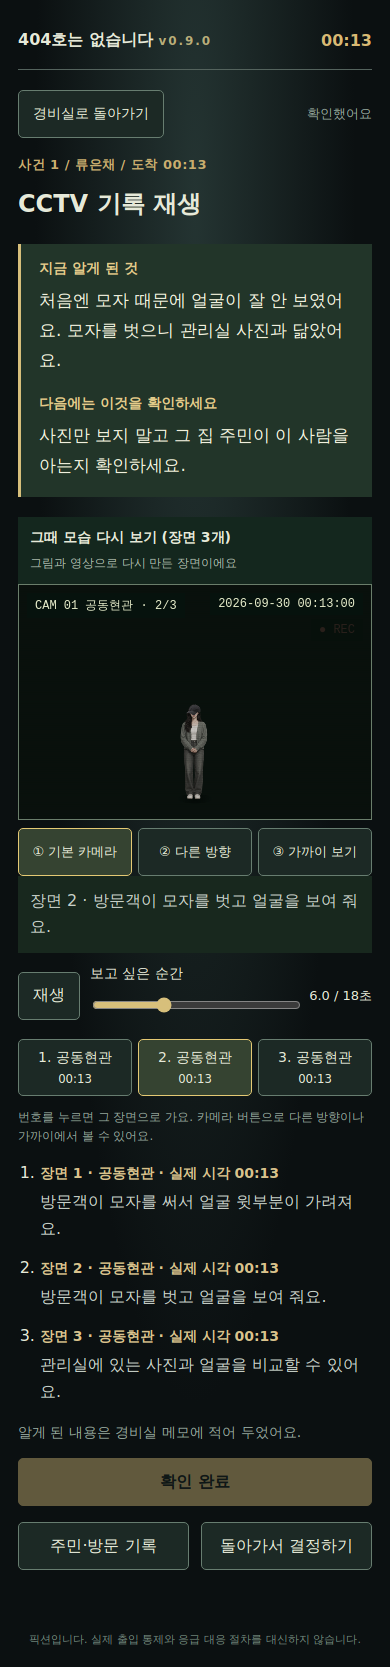
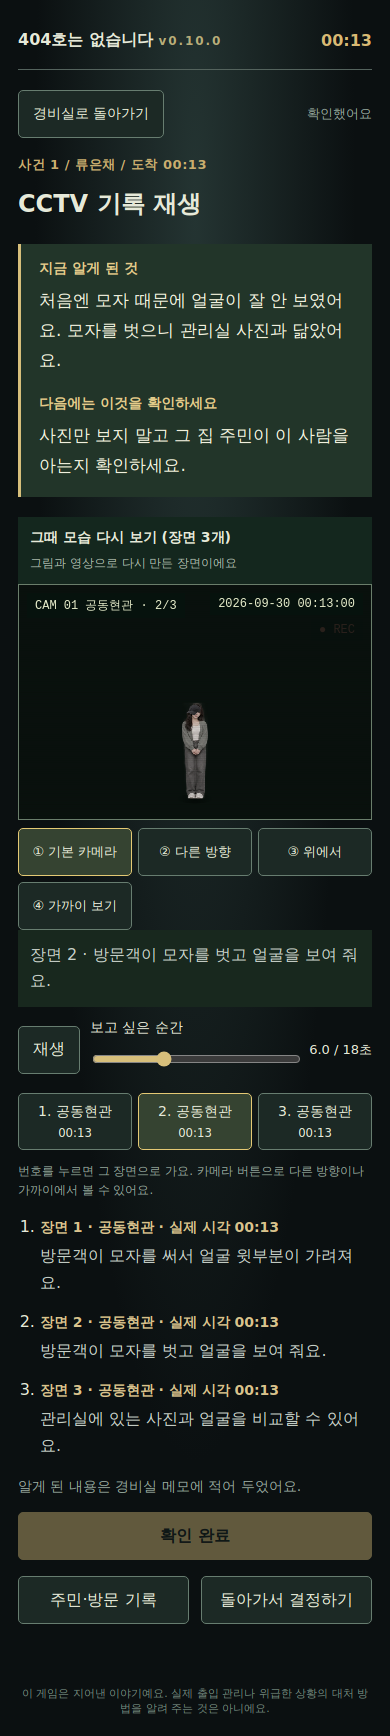
v0.10.0: image v3 — real second camera per place, front/back walks, gestures
- store the 18-file v3 package in visual-v3/, ship WebP copies
- replay.js: SIDE_VIEW/TOP_VIEW per place (no more mirrored fallback),
  '위에서' camera for the lobby, OPPOSITE views use the walk-away sheet,
  elevator-lobby view hides someone standing inside, VIEW_NAMES in HUD
- sprites: toward/away/side walk sheets and a gesture sheet per look
  (wave, knock, phone, look back, stand); phone gesture replaces the prop
- tests: second-camera and sprite-cell checks; top camera in all-cases
- CHANGELOG-0.10.0, CODE_GUIDE, README, WORKLOG, prompt-doc status

Claude-Session: https://claude.ai/code/session_01FGAUvVNs8BW1MSHvwbK7z4

diff --git a/404호는 없습니다/room404/dist/replay.js b/404호는 없습니다/room404/dist/replay.js
@@ -3,9 +3,17 @@
 // the visitor, props and anomaly effects. The HUD is HTML so camera flips/zooms never mirror or blur the text.
 export const LOCATIONS={lobby:'공동현관',lobbySide:'현관 옆 카메라',hall:'안쪽 복도',elevator:'엘리베이터',stairs:'계단',parking:'주차장',door:'집 현관문'};
 export const MODES=['normal','compare','badge','double','shadow','shadowHold','faceLock','absent','yesterday','doorClosed','doorOpen','doorCompare','preMove','footprints','voiceEarly','voiceLate','clock7','repeat','reflection','recorded','live','dateOnly','ir','reboot','loading','delay3','rainDouble','rain','removeProp','idMatch','card','fingerprint','darkCoat','hairOld','distort','faceShadow','blurCard','document','phone','ring','echo'];
-export const CAMERAS={main:'① 기본 카메라',side:'② 다른 방향',close:'③ 가까이 보기'};
+export const CAMERAS={main:'① 기본 카메라',side:'② 다른 방향',top:'③ 위에서',close:'④ 가까이 보기'};
 const V2='assets/v2/';
-const BACKGROUNDS={lobby:'cctv-lobby',lobbySide:'cctv-lobby-side',hall:'cctv-hall',elevator:'cctv-elevator',stairs:'cctv-stairs',parking:'cctv-parking',door:'door-closed',doorOpen:'door-open'};
+const BACKGROUNDS={lobby:'cctv-lobby',lobbySide:'cctv-lobby-side',hall:'cctv-hall',elevator:'cctv-elevator',stairs:'cctv-stairs',parking:'cctv-parking',door:'door-closed',doorOpen:'door-open',
+ hallSide:'cctv-hall-side',elevatorLobby:'cctv-elevator-lobby',stairsUp:'cctv-stairs-up',parkingSide:'cctv-parking-side',doorFar:'door-far',lobbyTop:'cctv-lobby-top'};
+// v3: every place has a real second camera, and the lobby also has a top-down one.
+export const SIDE_VIEW={lobby:'lobbySide',lobbySide:'lobby',hall:'hallSide',elevator:'elevatorLobby',stairs:'stairsUp',parking:'parkingSide',door:'doorFar'};
+export const TOP_VIEW={lobby:'lobbyTop',lobbySide:'lobbyTop'};
+export const VIEW_NAMES={hallSide:'복도 반대편',elevatorLobby:'엘리베이터 앞',stairsUp:'계단 아래쪽',parkingSide:'주차장 반대편',doorFar:'복도 끝에서 본 현관문',lobbyTop:'공동현관 위에서'};
+// These cameras look at the place from the opposite end: someone entering toward the main camera walks away from them.
+const OPPOSITE=new Set(['hallSide','parkingSide','elevatorLobby','doorFar']);
+export function viewFor(location,camera){return camera==='side'?SIDE_VIEW[location]||location:camera==='top'?TOP_VIEW[location]||location:location}
 const AMBIENT={lobby:'03-lobby-monitor',lobbySide:'04-lobby-side-monitor',hall:'05-hall-monitor',elevator:'06-elevator-monitor',stairs:'07-stairs-monitor',parking:'08-parking-monitor'};
 // Anomaly clips already contain one specific visitor look, so they are used only when place, mode and look all match.
 const ANOMALY_CLIPS=[['17-delayed-shadow','hall','shadowHold',1],['18-duplicate-visitors','lobby','double',2],['19-reflection-lag','elevator','reflection',3],['21-infrared-view','parking','ir',4],['22-rain-double-image','lobby','rainDouble',1]];
@@ -13,7 +21,8 @@ const ANOMALY_CLIPS=[['17-delayed-shadow','hall','shadowHold',1],['18-duplicate-
 // Perspective per place (canvas 960x640). y/h: foot line and figure height at the reference (near) spot.
 // horizon: the line where a figure's height would shrink to zero; far/farX: where someone appears at the back of the shot.
 // A figure's height always follows its foot line, so anyone walking toward the camera grows the way a real CCTV image does.
-const LAYOUT={lobby:{y:585,h:285,horizon:-20,far:330,farX:240},lobbySide:{y:585,h:285,horizon:-20,far:350,farX:300},hall:{y:587,h:290,horizon:250,far:430,farX:470},elevator:{y:568,h:340,horizon:-150,far:450,farX:500},stairs:{y:590,h:290,horizon:-40,far:380,farX:620},parking:{y:570,h:260,horizon:230,far:390,farX:330},door:{y:600,h:300,horizon:-300,far:560,farX:480}};
+const LAYOUT={lobby:{y:585,h:285,horizon:-20,far:330,farX:240},lobbySide:{y:585,h:285,horizon:-20,far:350,farX:300},hall:{y:587,h:290,horizon:250,far:430,farX:470},elevator:{y:568,h:340,horizon:-150,far:450,farX:500},stairs:{y:590,h:290,horizon:-40,far:380,farX:620},parking:{y:570,h:260,horizon:230,far:390,farX:330},door:{y:600,h:300,horizon:-300,far:560,farX:480},
+ hallSide:{y:587,h:290,horizon:250,far:430,farX:480},elevatorLobby:{y:590,h:300,horizon:-100,far:470,farX:480},stairsUp:{y:600,h:300,horizon:-60,far:330,farX:640},parkingSide:{y:580,h:270,horizon:200,far:400,farX:480},doorFar:{y:440,h:190,horizon:-120,far:440,farX:470},lobbyTop:{y:600,h:280,horizon:-300,far:300,farX:200}};
 export function heightAt(location,footY){const b=LAYOUT[location]||LAYOUT.lobby;return b.h*(footY-b.horizon)/(b.y-b.horizon)}
 // Uniform motion toward or away from the camera is not linear on screen: the foot line follows 1/depth.
 export function perspectiveY(horizon,y0,y1,phase){const a=y0-horizon,b=y1-horizon;return horizon+a*b/(b-phase*(b-a))}
@@ -29,27 +38,33 @@ export function sceneTime(frame,time){return shiftedTime(time,frame.offset+(fram
 function previousDate(date){const d=new Date(date+'T12:00:00Z');d.setUTCDate(d.getUTCDate()-1);return d.toISOString().slice(0,10)}
 function reduceMotion(){return typeof matchMedia==='function'&&matchMedia('(prefers-reduced-motion: reduce)').matches}
 // Where the visitor stands at this phase of the scene. Shared by drawing and the close-up camera.
+// Sprite sheets (all 4x2 cells of 384x512, feet on the same line): side = walking sideways, toward = walking at the camera,
+// away = walking from the camera, gest = wave(0,1) knock(2,3) phone(4,5) look back(6) stand(7).
+export const GESTURE={wave:[0,1],knock:[2,3],phone:[4,5],look:6,stand:7};
 export function actorPlacement(s,phase,look=1){
- const base=LAYOUT[s.location]||LAYOUT.lobby;let x=480,y=base.y,walking=false,facing=1;
- if(videoWalk(s,look))return {x:-90+phase*1140,y:582,h:285,walking:true,video:true,facing:1};
+ const base=LAYOUT[s.location]||LAYOUT.lobby;let x=480,y=base.y,walking=false,facing=1,sheet='gest',cell=GESTURE.stand;
+ if(videoWalk(s,look))return {x:-90+phase*1140,y:582,h:285,walking:true,video:true,facing:1,sheet:'side',cell:-1};
  // A straight walk on the floor: the foot line follows perspective, x follows the foot line so the path stays straight on screen.
  const path=(x0,y0,x1,y1,q=phase)=>{y=perspectiveY(base.horizon,y0,y1,q);x=x0+(x1-x0)*(y-y0)/(y1-y0);walking=true};
- if(s.action==='enter')path(base.farX,base.far,520,base.y);
- if(s.action==='descend'){path(base.farX,base.far,420,base.y);facing=-1}
- if(s.action==='cross'){y=base.y-.08*(base.y-base.horizon);x=120+phase*720;walking=true}
- if(s.action==='turn'){x=480+Math.sin(phase*Math.PI)*28;facing=phase>.5?-1:1}
- if(s.mode==='repeat')path(base.farX,base.far,520,base.y,(phase*2)%1);
+ const opposite=OPPOSITE.has(s.location);
+ if(s.action==='enter'||s.mode==='repeat'){const q=s.mode==='repeat'?(phase*2)%1:phase;if(opposite){path(520,base.y,base.farX,base.far,q);sheet='away'}else{path(base.farX,base.far,520,base.y,q);sheet='toward'}}
+ if(s.action==='descend'){path(base.farX,base.far,420,base.y);if(s.location==='stairsUp')sheet='toward';else{sheet='side';facing=-1}}
+ if(s.action==='cross'){y=base.y-.08*(base.y-base.horizon);x=120+phase*720;walking=true;sheet='side'}
+ if(s.action==='turn'){x=480+Math.sin(phase*Math.PI)*28;cell=phase>.3&&phase<.7?GESTURE.look:GESTURE.stand}
+ if(s.action==='wave')cell=GESTURE.wave[Math.floor(phase*8)%2];
+ if(s.action==='knock')cell=GESTURE.knock[Math.floor(phase*10)%2];
+ if(s.action==='phone')cell=phase<.15?GESTURE.phone[0]:GESTURE.phone[1];
  const h=heightAt(s.location,y)*(s.mode==='distort'?1.15:1);
- return {x,y,h,walking,facing};
+ return {x,y,h,walking,facing,sheet,cell};
 }
 function videoWalk(s,look){return s.location==='lobby'&&['enter','cross'].includes(s.action)&&s.mode==='normal'&&(!s.prop||s.prop==='none')&&look>=1&&look<=4}
 export function sceneVideo(s,look,camera='main'){
+ if(camera==='side'){const v=SIDE_VIEW[s.location];return v&&AMBIENT[v]||null}
+ if(camera==='top')return null;
  if(s.mode==='loading')return '20-signal-loss';
  if(s.mode==='doorCompare')return '09-door-comparison';
  if(s.mode==='doorOpen')return '23-door-open-ambient';
  if(s.location==='door')return null;
- if(camera==='side'&&s.location==='lobby')return AMBIENT.lobbySide;
- if(camera==='side'&&s.location==='lobbySide')return AMBIENT.lobby;
  if(camera==='main'){const clip=ANOMALY_CLIPS.find(([,loc,mode,l])=>loc===s.location&&mode===s.mode&&l===look);if(clip)return clip[0];if(videoWalk(s,look))return `${12+look}-visitor-0${look}-walk`}
  return AMBIENT[s.location]||null;
 }
@@ -60,12 +75,12 @@ export async function mountReplay(host,{pack,visitor,time,date,scenes=pack.scene
  const canvas=host.querySelector('canvas'),ctx=canvas.getContext('2d'),stage=host.querySelector('.replay-stage'),video=host.querySelector('video'),caption=host.querySelector('.replay-caption'),seek=host.querySelector('input'),play=host.querySelector('.replay-play');
  const hudCam=host.querySelector('.hud-cam'),hudTime=host.querySelector('.hud-time'),hudState=host.querySelector('.hud-state');
  const look=(Number(visitor.id.slice(1))-1)%4+1,sprite=look-1;
- let images,props,walkSheet,videoSrc=null,videoOk=false;const failed=new Set();
+ let images,props,sheets={},videoSrc=null,videoOk=false;const failed=new Set();
  const ready=Promise.all([
   Promise.all(Object.values(BACKGROUNDS).map(n=>load(V2+n+'.webp'))),
   Promise.all(['assets/visitors.png','assets/visitors-before-haircut.png'].map(load)),
   Promise.all(['hat','umbrella','mask','phone','parcel','glove'].map(n=>load(V2+'prop-'+n+'.webp').then(im=>[n,im]))),
-  load(V2+`visitor-0${look}-walk.webp`)
+  Promise.all([['side','walk'],['toward','walk-toward'],['away','walk-away'],['gest','gestures']].map(([k,n])=>load(V2+`visitor-0${look}-${n}.webp`).then(im=>[k,im],()=>[k,null])))
  ]);
  function background(key){return images.bg[Object.keys(BACKGROUNDS).indexOf(key)]}
  function prop(kind,x,y,w,h,opacity=1){const im=props[kind];if(!im)return;ctx.save();ctx.globalAlpha=opacity;ctx.drawImage(im,x,y,w,h);ctx.restore()}
@@ -73,15 +88,17 @@ export async function mountReplay(host,{pack,visitor,time,date,scenes=pack.scene
  function drawProp(kind,x,y,h,mode,phase){const im=props[kind];if(!im)return;const ph={hat:h*.13,umbrella:h*.58,mask:h*.06,phone:h*.16,parcel:h*.22,glove:h*.10}[kind],pw=ph*im.width/im.height,[dx,dy]={hat:[-.02,-.92],mask:[.09,-.80],umbrella:[.2,-.51],phone:[.15,-.60],parcel:[.05,-.55],glove:[.14,-.53]}[kind];
   const gone=mode==='removeProp'&&['hat','mask','umbrella'].includes(kind);prop(kind,x+dx*h-pw/2+(gone?phase*60:0),y+dy*h+(gone?phase*110:0),pw,ph,gone?1-phase:1)}
  function contactShadow(x,bottom,height,alpha){const rx=height*.17,ry=height*.045;ctx.save();ctx.globalAlpha=alpha;const g=ctx.createRadialGradient(x,bottom,0,x,bottom,rx);g.addColorStop(0,'rgba(0,4,2,.55)');g.addColorStop(1,'rgba(0,4,2,0)');ctx.fillStyle=g;ctx.beginPath();ctx.ellipse(x,bottom,rx,ry,0,0,Math.PI*2);ctx.fill();ctx.restore()}
- function actor(x,bottom,height,{alpha=1,flip=false,filter='none',propName='none',mode='normal',phase=0,shadowOnly=false,walk=-1,shadow=true,breath=0}={}){
+ function actor(x,bottom,height,{alpha=1,flip=false,filter='none',propName='none',mode='normal',phase=0,shadowOnly=false,walk=-1,sheet='gest',cell=GESTURE.stand,shadow=true,breath=0}={}){
   if(shadow&&!shadowOnly)contactShadow(x,bottom,height,alpha);
   ctx.save();ctx.globalAlpha=alpha;ctx.filter=shadowOnly?'brightness(0) opacity(.7)':filter;ctx.translate(x,bottom);if(flip)ctx.scale(-1,1);
   if(breath)ctx.scale(1,1+breath);
   const figure=height*WALK.figure/WALK.h;
-  if(walk>=0&&walkSheet){const k=height/WALK.h;ctx.drawImage(walkSheet,walk%4*WALK.w,Math.floor(walk/4)*WALK.h,WALK.w,WALK.h,-WALK.footX*k,-WALK.footY*k,WALK.w*k,WALK.h*k)}
+  const useCell=walk>=0?walk:cell,im2=sheets[walk>=0?sheet:'gest'];
+  if(im2&&useCell>=0){const k=height/WALK.h;ctx.drawImage(im2,useCell%4*WALK.w,Math.floor(useCell/4)*WALK.h,WALK.w,WALK.h,-WALK.footX*k,-WALK.footY*k,WALK.w*k,WALK.h*k)}
   else{const im=images.stand[0],k=figure/(STAND.foot-STAND.top);ctx.drawImage(im,sprite*STAND.cellW,0,STAND.cellW,STAND.cellH,-STAND.cellW/2*k,-STAND.foot*k,STAND.cellW*k,STAND.cellH*k)}
   ctx.restore();
-  if(!shadowOnly&&propName&&propName!=='none')drawProp(propName,x,bottom,height,mode,phase);
+  const shownByGesture=walk<0&&sheets.gest&&propName==='phone'&&GESTURE.phone.includes(cell);
+  if(!shadowOnly&&propName&&propName!=='none'&&!shownByGesture)drawProp(propName,x,bottom,height,mode,phase);
  }
  function headCrop(x,y,w,h){const im=images.stand[0];ctx.drawImage(im,sprite*STAND.cellW+STAND.cellW*.27,STAND.top,STAND.cellW*.46,STAND.cellH*.2,x,y,w,h)}
  function setVideo(name,local){
@@ -96,11 +113,10 @@ export async function mountReplay(host,{pack,visitor,time,date,scenes=pack.scene
  video.addEventListener('error',()=>{if(videoSrc){failed.add(videoSrc);videoSrc=null;videoOk=false;video.hidden=true;draw()}});
  function cameraTransform(s,pos){
   if(camera==='close'){const cx=pos.x/960*100,cy=Math.max(5,(pos.y-pos.h*.62)/640*100);stage.style.transformOrigin=`${cx}% ${cy}%`;stage.style.transform='scale(2.2)'}
-  else if(camera==='side'&&!['lobby','lobbySide'].includes(s.location)){stage.style.transformOrigin='50% 50%';stage.style.transform='scaleX(-1)'}
   else{stage.style.transform='';stage.style.transformOrigin=''}
  }
  function draw(){if(disposed||!images)return;const index=Math.min(scenes.length-1,Math.floor(cursor/6)),s=scenes[index],local=cursor-index*6,phase=local/6,mode=s.mode;
-  const place=camera==='side'&&s.location==='lobby'?'lobbySide':camera==='side'&&s.location==='lobbySide'?'lobby':s.location;
+  const place=viewFor(s.location,camera);host.querySelector('[data-camera=top]').hidden=!TOP_VIEW[s.location];
   const view={...s,location:place},pos=actorPlacement(view,phase,look);
   setVideo(sceneVideo(s,look,camera),local);
   const clipHasActor=videoOk&&videoSrc&&(/visitor-0\d-walk|delayed|duplicate|reflection-lag|infrared|rain-double/.test(videoSrc));
@@ -112,18 +128,20 @@ export async function mountReplay(host,{pack,visitor,time,date,scenes=pack.scene
   cameraTransform(view,pos);
   let {x,y,h}=pos;
   // Walking across the frame paces the stride by distance travelled so the feet never slide; depth walks use the clock.
-  const stride=.8*h*WALK.figure/WALK.h,walk=!(pos.walking&&walkSheet)?-1:s.action==='cross'?Math.floor((x-120)/stride*8)%8:walkFrame(cursor),walkFlip=walk>=0&&pos.facing<0;
+  const stride=.8*h*WALK.figure/WALK.h,walk=!(pos.walking&&sheets[pos.sheet])?-1:s.action==='cross'?Math.floor((x-120)/stride*8)%8:walkFrame(cursor),walkFlip=walk>=0&&pos.facing<0,sp={sheet:pos.sheet,cell:pos.cell};
   // Standing figures breathe very slightly (period 3 s), so a paused frame still reads as a living person.
   const breath=walk<0?Math.sin(cursor*Math.PI*2/3)*.006:0;
   const filter=mode==='darkCoat'?'brightness(.35)':mode==='ir'?'grayscale(1) contrast(1.9) brightness(2)':mode==='blurCard'?'blur(.6px) saturate(.75)':'saturate(.75) brightness(.92)';
-  if(!clipHasActor){
-   if(['shadow','shadowHold','faceShadow'].includes(mode)){ctx.save();ctx.translate(mode==='shadow'?x:280,y-10);ctx.transform(1,.15,-.6,.25,0,0);actor(0,0,h,{shadowOnly:true,walk,flip:walkFlip});ctx.restore()}
+  // The hallway camera cannot see inside the elevator: it only shows someone walking in, never someone standing inside.
+  const hiddenByView=place==='elevatorLobby'&&s.action!=='enter';
+  if(!clipHasActor&&!hiddenByView){
+   if(['shadow','shadowHold','faceShadow'].includes(mode)){ctx.save();ctx.translate(mode==='shadow'?x:280,y-10);ctx.transform(1,.15,-.6,.25,0,0);actor(0,0,h,{shadowOnly:true,walk,flip:walkFlip,...sp});ctx.restore()}
    if(mode==='footprints'){ctx.save();ctx.globalAlpha=.5;ctx.fillStyle='#1b2420';for(let j=0;j<6;j++){ctx.beginPath();ctx.ellipse(150+j*42,y+10-j*22,11,5,-.3,0,Math.PI*2);ctx.fill()}ctx.restore()}
    if(mode!=='absent'&&mode!=='loading'){
-    if(mode==='double'){actor(x-130,y,h,{filter,propName:s.prop,mode,phase,walk,flip:walkFlip,breath});actor(x+170,y,h,{filter,propName:s.prop,mode,phase,walk:walk<0?-1:(walk+4)%8,flip:walkFlip,breath:-breath})}
-    else {actor(x,y,h,{filter,propName:s.prop,mode,phase,flip:walkFlip||pos.facing<0,walk,breath});if(['reflection','rainDouble'].includes(mode))actor(mode==='reflection'?(Math.abs(960-2*x)<160?x+200:960-x):x+40,y,mode==='reflection'?h*.9:h,{alpha:mode==='reflection'?.35:.42,flip:mode==='reflection'!==walkFlip,filter:mode==='rainDouble'?'blur(5px)':filter,walk,shadow:false,breath})}
+    if(mode==='double'){actor(x-130,y,h,{filter,propName:s.prop,mode,phase,walk,flip:walkFlip,breath,...sp});actor(x+170,y,h,{filter,propName:s.prop,mode,phase,walk:walk<0?-1:(walk+4)%8,flip:walkFlip,breath:-breath,...sp})}
+    else {actor(x,y,h,{filter,propName:s.prop,mode,phase,flip:walkFlip||(pos.facing<0&&pos.sheet==='side'),walk,breath,...sp});if(['reflection','rainDouble'].includes(mode))actor(mode==='reflection'?(Math.abs(960-2*x)<160?x+200:960-x):x+40,y,mode==='reflection'?h*.9:h,{alpha:mode==='reflection'?.35:.42,flip:mode==='reflection'!==walkFlip,filter:mode==='rainDouble'?'blur(5px)':filter,walk,shadow:false,breath,...sp})}
    }
-   if(s.action==='wave'||s.action==='knock')prop('glove',x+h*.14+Math.sin(phase*Math.PI*4)*18,y-h*.8,h*.18,h*.22);
+   if((s.action==='wave'||s.action==='knock')&&!sheets.gest)prop('glove',x+h*.14+Math.sin(phase*Math.PI*4)*18,y-h*.8,h*.18,h*.22);
    if(mode==='faceLock'){headCrop(450,140,85,120);ctx.strokeStyle='#e9c46f';ctx.strokeRect(450,140,85,120)}
    if(mode==='faceShadow'){ctx.save();ctx.fillStyle='#03080699';ctx.fillRect(x-18,y-h*.86,26,h*.2);ctx.restore()}
    if(mode==='ring'&&Math.floor(phase*10)%2===0){ctx.strokeStyle='#e8cf73';ctx.lineWidth=4;ctx.strokeRect(x+h*.08,y-h*.72,h*.16,h*.2)}
@@ -140,7 +158,7 @@ export async function mountReplay(host,{pack,visitor,time,date,scenes=pack.scene
   hudState.hidden=!states[mode];hudState.textContent=states[mode]||'';
   const cut=cutUntil-performance.now();
   if(cut>0){const k=Math.min(1,cut/CUT_MS);ctx.fillStyle=`rgba(3,8,6,${k*.95})`;ctx.fillRect(0,0,960,640);ctx.fillStyle=`rgba(200,220,200,${k*.5})`;ctx.fillRect(0,320-k*4,960,k*8)}
-  hudCam.textContent=`CAM ${String(Object.keys(BACKGROUNDS).indexOf(place)+1).padStart(2,'0')} ${LOCATIONS[place]} · ${index+1}/${scenes.length}${camera==='main'?'':' · '+CAMERAS[camera].slice(2)}`;
+  hudCam.textContent=`CAM ${String(Object.keys(BACKGROUNDS).indexOf(place)+1).padStart(2,'0')} ${LOCATIONS[place]||VIEW_NAMES[place]} · ${index+1}/${scenes.length}${camera==='main'?'':' · '+CAMERAS[camera].slice(2)}`;
   const recordedDate=mode==='yesterday'?previousDate(date):date;hudTime.textContent=`${recordedDate} ${sceneTime(s,time)}:${String(Math.floor(phase*6)).padStart(2,'0')}`;
   canvas.dataset.mode=mode;canvas.dataset.scene=String(index);canvas.dataset.time=sceneTime(s,time);canvas.dataset.location=s.location;canvas.dataset.view=camera;canvas.dataset.video=videoSrc&&videoOk?videoSrc:'';canvas.dataset.walkFrame=String(walk);canvas.dataset.count=String(mode==='absent'||mode==='loading'?0:['double','reflection','rainDouble'].includes(mode)?2:1);
   caption.textContent=`장면 ${index+1} · ${s.note}`;seek.value=String(cursor);host.querySelector('output').textContent=`${cursor.toFixed(1)} / ${duration}초`;host.querySelectorAll('[data-chapter]').forEach((b,i)=>b.setAttribute('aria-pressed',String(index===i)));
@@ -149,8 +167,8 @@ export async function mountReplay(host,{pack,visitor,time,date,scenes=pack.scene
  play.onclick=()=>{if(cursor>=duration-.02)cursor=0;playing=!playing;previous=0;play.textContent=playing?'일시정지':'재생';draw()};
  seek.oninput=()=>{cursor=Number(seek.value);playing=false;play.textContent='재생';draw()};
  host.querySelectorAll('[data-chapter]').forEach((b,i)=>b.onclick=()=>{if(i!==Math.floor(cursor/6)&&!reduced)cutUntil=performance.now()+CUT_MS;cursor=i*6;lastIndex=i;playing=false;play.textContent='재생';draw()});
- host.querySelectorAll('[data-camera]').forEach(b=>b.onclick=()=>{camera=b.dataset.camera;host.querySelectorAll('[data-camera]').forEach(x=>x.setAttribute('aria-pressed',String(x===b)));draw()});
+ host.querySelectorAll('[data-camera]').forEach(b=>b.onclick=()=>{camera=b.dataset.camera;if(camera==='top'&&!TOP_VIEW[scenes[Math.min(scenes.length-1,Math.floor(cursor/6))].location])camera='main';host.querySelectorAll('[data-camera]').forEach(x=>x.setAttribute('aria-pressed',String(x===b)));draw()});
  function visibility(){if(document.hidden){playing=false;play.textContent='재생';video.pause()}}document.addEventListener('visibilitychange',visibility);
- try{const [bg,stand,propList,walkIm]=await ready;images={bg,stand};props=Object.fromEntries(propList);walkSheet=walkIm;if(!disposed){draw();raf=requestAnimationFrame(loop)}}catch(e){caption.textContent=e.message;play.disabled=true;seek.disabled=true}
+ try{const [bg,stand,propList,sheetList]=await ready;images={bg,stand};props=Object.fromEntries(propList);sheets=Object.fromEntries(sheetList);if(!disposed){draw();raf=requestAnimationFrame(loop)}}catch(e){caption.textContent=e.message;play.disabled=true;seek.disabled=true}
  return ()=>{disposed=true;cancelAnimationFrame(raf);document.removeEventListener('visibilitychange',visibility);video.pause();video.removeAttribute('src');video.load()};
 }

diff --git a/404호는 없습니다/room404/dist/sw.js b/404호는 없습니다/room404/dist/sw.js
@@ -1,5 +1,5 @@
-const CACHE='room404-v0.9.0';
-const FILES=['./','./index.html','./style.css','./game.js','./engine.js','./replay.js','./voice.js','./sfx.js','./manifest.webmanifest','./data/visitors.json','./data/anomalies.json','./data/scenarios.json','./icons/icon-180.png','./icons/icon-192.png','./icons/icon-512.png','./assets/visitors.png','./assets/visitors-before-haircut.png',...['cctv-lobby','cctv-lobby-side','cctv-hall','cctv-elevator','cctv-stairs','cctv-parking','door-closed','door-open','title-night','guard-office','intercom-desk','ledger-desk','ending-dawn','visitor-01-walk','visitor-02-walk','visitor-03-walk','visitor-04-walk','prop-hat','prop-umbrella','prop-mask','prop-phone','prop-parcel','prop-glove'].map(n=>`./assets/v2/${n}.webp`)];
+const CACHE='room404-v0.10.0';
+const FILES=['./','./index.html','./style.css','./game.js','./engine.js','./replay.js','./voice.js','./sfx.js','./manifest.webmanifest','./data/visitors.json','./data/anomalies.json','./data/scenarios.json','./icons/icon-180.png','./icons/icon-192.png','./icons/icon-512.png','./assets/visitors.png','./assets/visitors-before-haircut.png',...['cctv-lobby','cctv-lobby-side','cctv-hall','cctv-elevator','cctv-stairs','cctv-parking','door-closed','door-open','title-night','guard-office','intercom-desk','ledger-desk','ending-dawn','visitor-01-walk','visitor-02-walk','visitor-03-walk','visitor-04-walk',...[1,2,3,4].flatMap(n=>[`visitor-0${n}-walk-toward`,`visitor-0${n}-walk-away`,`visitor-0${n}-gestures`]),'cctv-hall-side','cctv-elevator-lobby','cctv-stairs-up','cctv-parking-side','door-far','cctv-lobby-top','prop-hat','prop-umbrella','prop-mask','prop-phone','prop-parcel','prop-glove'].map(n=>`./assets/v2/${n}.webp`)];
 // Videos are not precached (8.8 MB, range requests); without network the photo backdrops are shown instead.
 self.addEventListener('install',event=>event.waitUntil((async()=>{const cache=await caches.open(CACHE);await cache.addAll(FILES);await self.skipWaiting()})()));
 self.addEventListener('activate',event=>event.waitUntil((async()=>{for(const key of await caches.keys())if(key.startsWith('room404-')&&key!==CACHE)await caches.delete(key);await self.clients.claim()})()));

diff --git a/404호는 없습니다/room404/dist/game.js b/404호는 없습니다/room404/dist/game.js
@@ -171,4 +171,4 @@ $('backDesk').onclick=backDesk;$('finishInspect').onclick=backDesk;$('toolAction
 $('startStory').onclick=()=>start('story');$('startDaily').onclick=()=>start('daily');$('resume').onclick=render;$('homeButton').onclick=home;$('again').onclick=()=>start(run.mode);$('resultHome').onclick=home;
 document.querySelectorAll('[data-tool]').forEach(b=>b.onclick=()=>inspect(b.dataset.tool));$('verify').onclick=verify;$('allow').onclick=()=>decide(true);$('deny').onclick=()=>decide(false);$('next').onclick=next;$('share').onclick=share;$('retry').onclick=boot;
 window.addEventListener('beforeinstallprompt',e=>{e.preventDefault();deferredInstall=e;$('install').hidden=false});$('install').onclick=async()=>{if(deferredInstall){await deferredInstall.prompt();deferredInstall=null;$('install').hidden=true}};window.addEventListener('appinstalled',()=>{$('install').hidden=true});
-document.addEventListener('visibilitychange',()=>{if(document.hidden&&run)save();activateMedia()});$('version').textContent='v0.9.0';boot();
+document.addEventListener('visibilitychange',()=>{if(document.hidden&&run)save();activateMedia()});$('version').textContent='v0.10.0';boot();

diff --git a/404호는 없습니다/room404/dist/style.css b/404호는 없습니다/room404/dist/style.css
@@ -55,7 +55,7 @@
 .replay-hud{position:absolute;inset:0;pointer-events:none;font:12px ui-monospace,monospace;color:#e7edcb}
 .replay-hud span{position:absolute;background:#07130ecc;padding:4px 8px;max-width:60%}
 .hud-cam{top:8px;left:8px}.hud-time{top:8px;right:8px}.hud-state{bottom:8px;left:8px}
-.replay-cameras{display:grid;grid-template-columns:repeat(3,1fr);gap:6px;margin-top:8px}
+.replay-cameras{display:grid;grid-template-columns:repeat(auto-fit,minmax(88px,1fr));gap:6px;margin-top:8px}
 .replay-cameras button{font-size:13px;padding:9px 4px}.replay-cameras [aria-pressed=true]{border-color:#e4c974;background:#354331}
 .clip-grid{display:grid;grid-template-columns:repeat(2,1fr);gap:8px}.clip-grid figure{margin:0}.clip-grid video{width:100%;aspect-ratio:3/2;object-fit:cover;background:#09110d;display:block}.clip-grid figcaption{font-size:13px;padding:4px 0}
 .register .book-log td:nth-child(-n+3),.register .book-log th{white-space:nowrap}

diff --git a/404호는 없습니다/docs/CODE_GUIDE.md b/404호는 없습니다/docs/CODE_GUIDE.md
@@ -2,7 +2,7 @@
 
 코드 구조를 섹션별로 정리합니다. **코드를 바꾸면 해당 섹션도 함께 고칩니다.**
 
-- 기준 버전: v0.9.0 (2026-09-30)
+- 기준 버전: v0.10.0 (2026-09-30)
 - 코드 위치: `room404/`
 - 빌드 과정 없이 `room404/dist/` 폴더를 그대로 웹 서버에 올리면 실행됩니다.
 
@@ -121,7 +121,9 @@ home ──시작──▶ game ◀──돌아가기── investigation
 - 걸음 프레임: `cross`는 이동 거리(보폭 = 키의 0.8배 = 8프레임)로 정해 발이 미끄러지지 않고, 깊이 방향 걷기는 `walkFrame(cursor)`(8fps)입니다.
 - `contactShadow()`: 발밑 그림자. 서 있는 인물은 `breath`로 3초 주기 미세한 숨쉬기.
 - 장면 전환 연출: `cutUntil`(0.32초 테이프 끊김). 재생 중 장면이 바뀌거나 장면 버튼을 누르면 켜집니다. 동작 줄이기에서는 버튼 전환 시 꺼집니다.
-- 카메라(`CAMERAS`): ① 기본 ② 다른 방향(공동현관↔현관 옆은 실제 다른 그림, 나머지는 좌우 반전) ③ 가까이 보기(2.2배). `.replay-stage`에 CSS transform으로 적용하므로 영상과 canvas가 같이 움직입니다.
+- 카메라(`CAMERAS`): ① 기본 ② 다른 방향 ③ 위에서 ④ 가까이 보기(2.2배). `viewFor(장소, 카메라)`가 실제로 그릴 장소(view)를 정합니다. `SIDE_VIEW`는 장소마다 두 번째 카메라(모두 실제 그림), `TOP_VIEW`는 위에서 보는 카메라(지금은 공동현관만; 없는 장소에서는 버튼을 숨김). 가까이 보기는 `.replay-stage`의 CSS transform이라 영상과 canvas가 같이 움직입니다.
+- `OPPOSITE`(복도 반대편, 주차장 반대편, 엘리베이터 앞, 복도 끝): 이 카메라에서는 들어오는 사람이 멀어지는 방향으로 걸으며 뒷모습 그림을 씁니다. 엘리베이터 앞 카메라는 안에 서 있는 사람을 그리지 않습니다(`hiddenByView`).
+- 새 카메라의 HUD 이름은 `VIEW_NAMES`에 있습니다.
 - `mountReplay(host, {pack, visitor, time, date})`가 화면을 만들고, 정리 함수를 돌려줍니다. 다른 화면으로 가면 `game.js`의 `clearReplay()`가 정리합니다.
 - `cursor`(초)가 모든 상태의 기준입니다. 재생, 슬라이더, 장면 버튼이 모두 `cursor`만 바꾸고 `draw()`를 부릅니다. 같은 `cursor`에서는 항상 같은 그림이 나옵니다.
 - 장면 데이터의 의미:
@@ -132,12 +134,22 @@ home ──시작──▶ game ◀──돌아가기── investigation
   - `offset`: 도착 시각 기준 몇 분 전·후인지
 - 검사용 표시: canvas의 `data-mode`, `data-time`, `data-location`, `data-count`, `data-walk-frame`, `data-view`(카메라), `data-video`(재생 중인 영상) 속성을 테스트가 읽습니다.
 
-### 5-1. 걷기 그림 (v0.8)
+### 5-1. 인물 그림 (v0.10)
 
-- 4명 모두 `assets/v2/visitor-0N-walk.webp`(4×2, 칸 384×512, 발 위치 192,496, 8fps)를 씁니다. 방문객 번호 `(번호-1) % 4 + 1`이 외형 번호입니다.
-- `walkFrame(cursor) = floor(cursor×8) mod 8`. 내려오는 장면(descend)은 좌우 반전합니다.
-- 서 있는 장면은 `assets/visitors.png`(기존 서 있는 그림)를 씁니다. 두 그림은 인물 키를 맞춰 그립니다(`WALK.figure`, `STAND`).
-- v0.6.1의 V001 전용 걷기 그림(`character-motion-v1`)은 v2 걷기 그림으로 바뀌었습니다.
+방문객 외형 번호 `(번호-1) % 4 + 1`마다 그림 4장을 씁니다. 모두 4×2칸, 칸 384×512, 발은 y 496, 머리는 y 26에 맞춰져 있습니다(`WALK`).
+
+| 이름 | 파일 | 쓰는 때 |
+|---|---|---|
+| `side` | `visitor-0N-walk.webp` | 가로지르기(`cross`), 계단 내려오기(좌우 반전) |
+| `toward` | `visitor-0N-walk-toward.webp` | 카메라 쪽으로 들어오기(`enter`, `repeat`), 계단 아래 카메라에서 내려오기 |
+| `away` | `visitor-0N-walk-away.webp` | 반대편 카메라에서 들어오기 |
+| `gest` | `visitor-0N-gestures.webp` | 칸 0·1 손 흔들기, 2·3 문 두드리기, 4·5 전화, 6 뒤돌아보기, 7 서 있기 (`GESTURE`) |
+
+- `actorPlacement()`가 `sheet`와 `cell`을 정하고, `actor()`가 그 칸을 그립니다. 걷는 중이면 `walk` 프레임 번호, 아니면 `cell`입니다.
+- 걸음 프레임: `cross`는 이동 거리(보폭 = 키의 0.8배 = 8프레임), 나머지 걷기는 `walkFrame(cursor)`(8fps).
+- 전화 동작 칸에는 휴대폰이 그려져 있어 휴대폰 소품을 따로 그리지 않습니다(`shownByGesture`).
+- 그림이 없으면 `assets/visitors.png`의 서 있는 그림으로 대신합니다. 이 그림은 초상, 등록 사진, 얼굴 확대에도 씁니다.
+- **새 인물을 추가하려면** 같은 규격의 그림 4장(옆모습 걷기, 앞모습 걷기, 뒷모습 걷기, 동작 모음)을 `assets/v2/visitor-0N-*.webp`로 넣고 `sw.js` 목록에 추가합니다.
 
 ## 6. 데이터 (dist/data)
 
@@ -160,21 +172,22 @@ home ──시작──▶ game ◀──돌아가기── investigation
 |---|---|
 | `visitors.png` | 초상, CCTV의 서 있는 사람, 얼굴 확대 |
 | `visitors-before-haircut.png` | `hairOld` 모드의 예전 사진 |
-| `v2/cctv-*.webp` (6장) | CCTV 장소별 배경 |
+| `v2/cctv-*.webp` (6장) | CCTV 장소별 기본 카메라 배경 |
+| `v2/cctv-hall-side`, `cctv-elevator-lobby`, `cctv-stairs-up`, `cctv-parking-side`, `door-far`, `cctv-lobby-top` | 두 번째 카메라·위에서 보기 배경 (v3) |
 | `v2/door-closed.webp`, `door-open.webp` | 집 현관문 |
 | `v2/title-night`, `guard-office`, `intercom-desk`, `ledger-desk`, `ending-dawn` | 화면 사진 |
-| `v2/visitor-01~04-walk.webp` | 걷기 8장면 |
+| `v2/visitor-01~04-walk.webp`, `-walk-toward`, `-walk-away`, `-gestures` | 옆모습·앞모습·뒷모습 걷기, 동작 모음 (5-1 참고) |
 | `v2/prop-*.webp` (6개) | 모자, 우산, 마스크, 휴대폰, 택배, 장갑 |
 | `v2/motion/*.mp4` (23개) | 화면·CCTV 영상 (960×640, 6초, 무음) |
 | `v2/previews/*.webp` | 예시 영상의 미리보기 |
 
-- 원본(PNG, 검수 자료, 제작 코드)은 저장소의 `visual-motion-v2/`에 있습니다. 게임용은 WebP로 줄인 것입니다.
+- 원본(PNG, 검수 자료, 제작 코드)은 저장소의 `visual-motion-v2/`(v2)와 `visual-v3/`(v3)에 있습니다. 게임용은 WebP로 줄인 것입니다.
 - 새 그림을 넣을 때: `visual-motion-v2`처럼 원본을 보관하고, WebP로 바꿔 `dist/assets/v2/`에 넣은 뒤 `sw.js`의 목록과 캐시 이름을 바꿉니다.
 
 ## 8. 오프라인 (sw.js)
 
 - 설치할 때 `FILES` 목록 전체를 캐시합니다. 이후에는 캐시를 먼저 쓰고, 없으면 네트워크를 씁니다.
-- **파일을 추가하거나 수정하면 `CACHE` 이름(`room404-v0.9.0`)을 올려야** 사용자에게 새 파일이 전달됩니다. 새 파일은 `FILES`에도 추가합니다.
+- **파일을 추가하거나 수정하면 `CACHE` 이름(`room404-v0.10.0`)을 올려야** 사용자에게 새 파일이 전달됩니다. 새 파일은 `FILES`에도 추가합니다.
 - 영상(.mp4)은 미리 저장하지 않고 서비스워커도 가로채지 않습니다(용량, 구간 요청). 인터넷이 없으면 사진이 보입니다.
 - 앱(Capacitor) 안에서는 서비스워커를 쓰지 않습니다. 모든 파일이 앱 안에 들어 있습니다.
 
@@ -194,7 +207,7 @@ npm run test:all-cases   # 사건 100개 × 장면 3개 전수 검사
 - 브라우저 검사는 `speechSynthesis`를 가짜로 바꿔 끼워 통화 음성을 검사합니다(읽은 줄 수, ko-KR, 사람마다 다른 높이, 소리 끄기).
 - 테스트용 서버는 `tests/static-server.mjs`입니다. 영상 탐색에 필요한 Range 요청을 지원합니다.
 - 이 환경의 브라우저는 GPU가 없어 스크린샷에 영상이 검게 나옵니다. 영상 확인은 `data-video`와 `currentTime`으로 합니다.
-- 마지막 결과(2026-09-30, v0.9.0): 13/13, 9/9, 100/100 모두 통과
+- 마지막 결과(2026-09-30, v0.10.0): 14/14, 9/9, 100/100 모두 통과
 
 ## 10. 주의사항
 
@@ -211,12 +224,14 @@ npm run test:all-cases   # 사건 100개 × 장면 3개 전수 검사
 | 높음 | 결과 이미지 저장을 앱 방식으로 | Android 웹뷰에서는 파일 공유와 blob 다운로드가 동작하지 않을 수 있습니다. Capacitor Share/Filesystem을 씁니다. |
 | 중간 | 저장을 Capacitor Preferences로 이중화 | 웹뷰의 localStorage는 OS가 정리할 때 지워질 수 있습니다. |
 | 높음 | Android 앱에 TextToSpeech 플러그인 설치 | 없으면 앱에서 전화 목소리가 나오지 않습니다. |
-| 중간 | 장소별 두 번째 방향 배경 | 지금 ‘다른 방향’은 공동현관만 실제 그림이고 나머지는 좌우 반전입니다. 규격: `docs/CCTV_ANGLE_IMAGE_SPEC.md` |
+| 중간 | 새 방문객 외형 05~08, 사물 8개, 화면용 그림 3장 | `docs/GPT_ASSET_PROMPT.md` 묶음 C·D·E. 받으면 5-1의 방법으로 넣습니다. |
+| 낮음 | 다른 장소의 ‘위에서’ 카메라 | 지금은 공동현관만 있습니다. |
 | 중간 | 녹음 목소리로 교체 | 지금은 기기 내장 음성입니다. 대본 구조는 그대로 두고 오디오 파일로 바꿀 수 있습니다. |
-| 중간 | 비스듬히 걷는 인물 그림 | 지금은 정면·옆면 두 가지라 대각선으로 다가오는 장면도 옆면을 씁니다. 3/4 방향 걷기 8장면이 있으면 더 자연스럽습니다. |
 | 낮음 | 결말 24개 추가 구현 | `endings.json` 30개 중 6개만 구현되어 있습니다. |
 
 ### 완료한 개선
+
+- v0.10.0: 모든 장소에 실제 두 번째 카메라, 공동현관 위에서 보기, 앞모습·뒷모습 걷기, 동작 그림(손 흔들기, 문 두드리기, 전화, 뒤돌아보기).
 
 - v0.9.0: 장소별 원근법(발 위치로 키 결정, 1/거리 접근), 접지 그림자, 숨쉬기, 보폭 기반 걸음, 테이프 끊김, 문 열림/닫힘 판단 연출, 효과음, 결말 설명과 색, 틀렸을 때 안내.
 

diff --git a/404호는 없습니다/room404/CHANGELOG-0.10.0.md b/404호는 없습니다/room404/CHANGELOG-0.10.0.md
@@ -1,0 +1,46 @@
+# 0.10.0 — 이미지 v3: 진짜 두 번째 카메라, 앞모습·뒷모습 걷기, 동작
+
+2026-09-30
+
+GPT로 만든 이미지 v3(배경 6장, 방문객 4명 × 3장 = 12장, 모두 18장, 약 30MB)를 받아 게임에 넣었다. 원본은 `visual-v3/`에 그대로 보관하고, 게임에는 WebP로 줄여 넣었다(약 2.6MB).
+
+## CCTV 카메라
+- **모든 장소에 진짜 두 번째 카메라가 생겼다.** 전에는 공동현관만 실제 그림이고 나머지는 좌우 반전이었다. 이제 좌우 반전은 쓰지 않는다.
+
+| 장소 | ② 다른 방향 |
+|---|---|
+| 공동현관 ↔ 현관 옆 카메라 | 서로 (기존) |
+| 안쪽 복도 | 복도 반대편 |
+| 엘리베이터 | 엘리베이터 앞 복도 |
+| 계단 | 계단 아래쪽에서 올려다본 모습 |
+| 주차장 | 주차장 반대편 |
+| 집 현관문 | 복도 끝에서 본 현관문 |
+
+- **③ 위에서** 카메라를 추가했다. 지금은 공동현관에만 있고, 다른 장소에서는 버튼이 숨겨진다.
+- 반대편 카메라(복도 반대편, 주차장 반대편, 엘리베이터 앞, 복도 끝)에서는 들어오는 사람이 **카메라에서 멀어지는 방향**으로 걷는다. 뒷모습 걷기 그림을 쓴다.
+- 엘리베이터 앞 카메라는 엘리베이터 안을 볼 수 없으므로, 안에 서 있는 장면에서는 사람을 그리지 않는다. 걸어 들어가는 장면만 보인다.
+- 계단 아래쪽 카메라에서는 내려오는 사람이 카메라 쪽을 보며 내려온다.
+
+## 캐릭터 그림
+- 방문객 4명 모두 **앞모습 걷기(3/4 앞모습)**, **뒷모습 걷기**, **동작 모음**이 생겼다.
+- 카메라 쪽으로 들어오는 장면(`enter`)은 이제 옆모습이 아니라 앞모습 걷기로 걷는다.
+- 동작 모음(칸 순서: 손 흔들기 2, 문 두드리기 2, 전화 2, 뒤돌아보기 1, 서 있기 1)을 동작에 연결했다.
+  - `wave`: 손 흔들기 두 칸을 번갈아
+  - `knock`: 문 두드리기 두 칸을 번갈아
+  - `phone`: 처음 0.9초는 휴대폰을 드는 칸, 이후 귀에 댄 칸. 이때는 휴대폰 소품을 따로 그리지 않는다.
+  - `turn`: 장면 중간(30~70%)에 뒤돌아보는 칸
+  - `wait` 등: 서 있는 칸. 초상용 옛 그림(`visitors.png`)은 초상, 등록 사진, 얼굴 확대에만 쓴다.
+- 손 흔들기·문 두드리기에 쓰던 장갑 소품 애니메이션은 동작 그림이 없을 때만 쓴다.
+- 새 그림 12장은 발 위치(496)와 머리 위치(26)가 기존 걷기 그림과 같아 보정 없이 같은 기준으로 그린다.
+
+## 기타
+- HUD의 카메라 이름에 새 카메라 이름을 넣었다(`VIEW_NAMES`).
+- 서비스워커 `room404-v0.10.0`. 새 WebP 18장을 캐시 목록에 추가했다.
+- 검사 추가: 모든 장소에 실제 두 번째 카메라가 있는지, 동작별 그림 칸과 방향(앞모습/뒷모습/옆모습)이 맞는지, 반대편 카메라에서 멀어지는지.
+- 엔진·데이터 14/14, 브라우저 9/9, 전수 100/100 통과.
+
+## 아직 남은 것
+- 새 방문객 외형(05~08), 사물 8개, 화면용 그림 3장은 아직 받지 못했다(`docs/GPT_ASSET_PROMPT.md` 묶음 C·D·E).
+- 위에서 보는 카메라는 공동현관만 있다.
+- 위에서 볼 때도 앞모습 걷기 그림을 쓴다. 진짜 위에서 본 인물 그림은 없다.
+- 실제 휴대폰 확인 필요.

diff --git a/404호는 없습니다/README.md b/404호는 없습니다/README.md
@@ -7,7 +7,7 @@
 | 항목 | 상태 |
 |---|---|
 | 운영 사이트 | v0.5.0 (ChatGPT Sites, 소유자 전용) |
-| 최신 작업본 | v0.9.0 — `room404/` (운영 미배포). 쉬운 대사, 전화 목소리, 넘기는 기록부, 이미지·모션 v2, CCTV 카메라 바꾸기, 원근법·연출·효과음 |
+| 최신 작업본 | v0.10.0 — `room404/` (운영 미배포). 쉬운 대사, 전화 목소리, 넘기는 기록부, 이미지 v2·v3, 장소별 2대 카메라, 원근법·연출·효과음 |
 | iOS 앱 | Capacitor 8.5.2 Xcode 프로젝트 초안 (v0.2 기준, 최신 코드와 동기화 필요) |
 | Android 앱 | 아직 없음 |
 | 스토어 등록 | 아직 안 함. Google Play 먼저 진행 (앱 ID `com.musi0905.room404`, 3,300원) |
@@ -19,6 +19,7 @@
 | `room404/` | 게임 소스 (dist, tests, scripts, 인수인계 문서, 검사 결과) |
 | `character-motion-v1/` | V001 걷기 캐릭터 원본 자료 (v0.6.1, v0.8에서 v2 걷기 그림으로 교체) |
 | `visual-motion-v2/` | 이미지·모션 v2 원본 117개 (배경, 걷기 프레임, 소품, 영상 23개, 제작 코드·문서). 게임에는 WebP로 줄여 적용 |
+| `visual-v3/` | 이미지 v3 원본 18개 (두 번째 카메라 배경 6장, 방문객 4명의 앞모습·뒷모습 걷기와 동작). v0.10에서 적용 |
 | `docs/` | 정리 문서 |
 
 ## 문서

diff --git a/404호는 없습니다/docs/WORKLOG.md b/404호는 없습니다/docs/WORKLOG.md
@@ -74,3 +74,10 @@
 - 말투: 남아 있던 격식체 두 곳을 해요체로 통일했습니다.
 - 검사: 원근법 단위 검사를 추가했고, 엔진·데이터 13/13, 브라우저 9/9, 전수 100/100 통과.
 - 남은 것: 다른 방향 배경(공동현관 외), 비스듬한 방향의 인물 그림, 실제 휴대폰 확인.
+
+### v0.10.0 — 이미지 v3 적용
+- Drive `이미지_v3`에 올라온 18장(배경 6, 방문객 4명 × 앞모습 걷기·뒷모습 걷기·동작)을 받아 크기를 확인하고 `visual-v3/`에 보관, WebP로 줄여 게임에 넣었습니다.
+- 모든 장소에 실제 두 번째 카메라가 생겨 좌우 반전을 없앴습니다. 공동현관에는 ‘③ 위에서’ 카메라를 추가했습니다.
+- 들어오는 장면은 앞모습 걷기, 반대편 카메라에서는 뒷모습 걷기를 씁니다. 손 흔들기·문 두드리기·전화·뒤돌아보기가 실제 동작 그림으로 바뀌었습니다.
+- 검사: 엔진·데이터 14/14, 브라우저 9/9, 전수 100/100 통과. 자세한 내용은 `room404/CHANGELOG-0.10.0.md`.
+- 남은 것: 묶음 C·D·E 그림(새 방문객, 사물, 화면용) 수신 후 적용.

diff --git a/404호는 없습니다/docs/GPT_ASSET_PROMPT.md b/404호는 없습니다/docs/GPT_ASSET_PROMPT.md
@@ -1,5 +1,7 @@
 # GPT 그림 요청 프롬프트 — 404호는 없습니다 v3 에셋
 
+> 진행 상황 (2026-09-30): **묶음 A(배경 6장)와 묶음 B(방문객 4명 × 3장)는 받아서 v0.10.0에 적용했습니다.** 남은 것은 묶음 C(새 방문객 05~08), D(사물 8개), E(화면용 3장)입니다.
+
 GPT(이미지 생성)에 그대로 붙여 넣어 쓰는 프롬프트입니다.
 - **먼저 [공통 지시]를 한 번 보냅니다.** 그다음 [묶음 A]부터 차례로 보냅니다.
 - 한 번에 너무 많이 요청하면 품질이 떨어집니다. **한 묶음씩, 한 장씩** 요청하세요.
